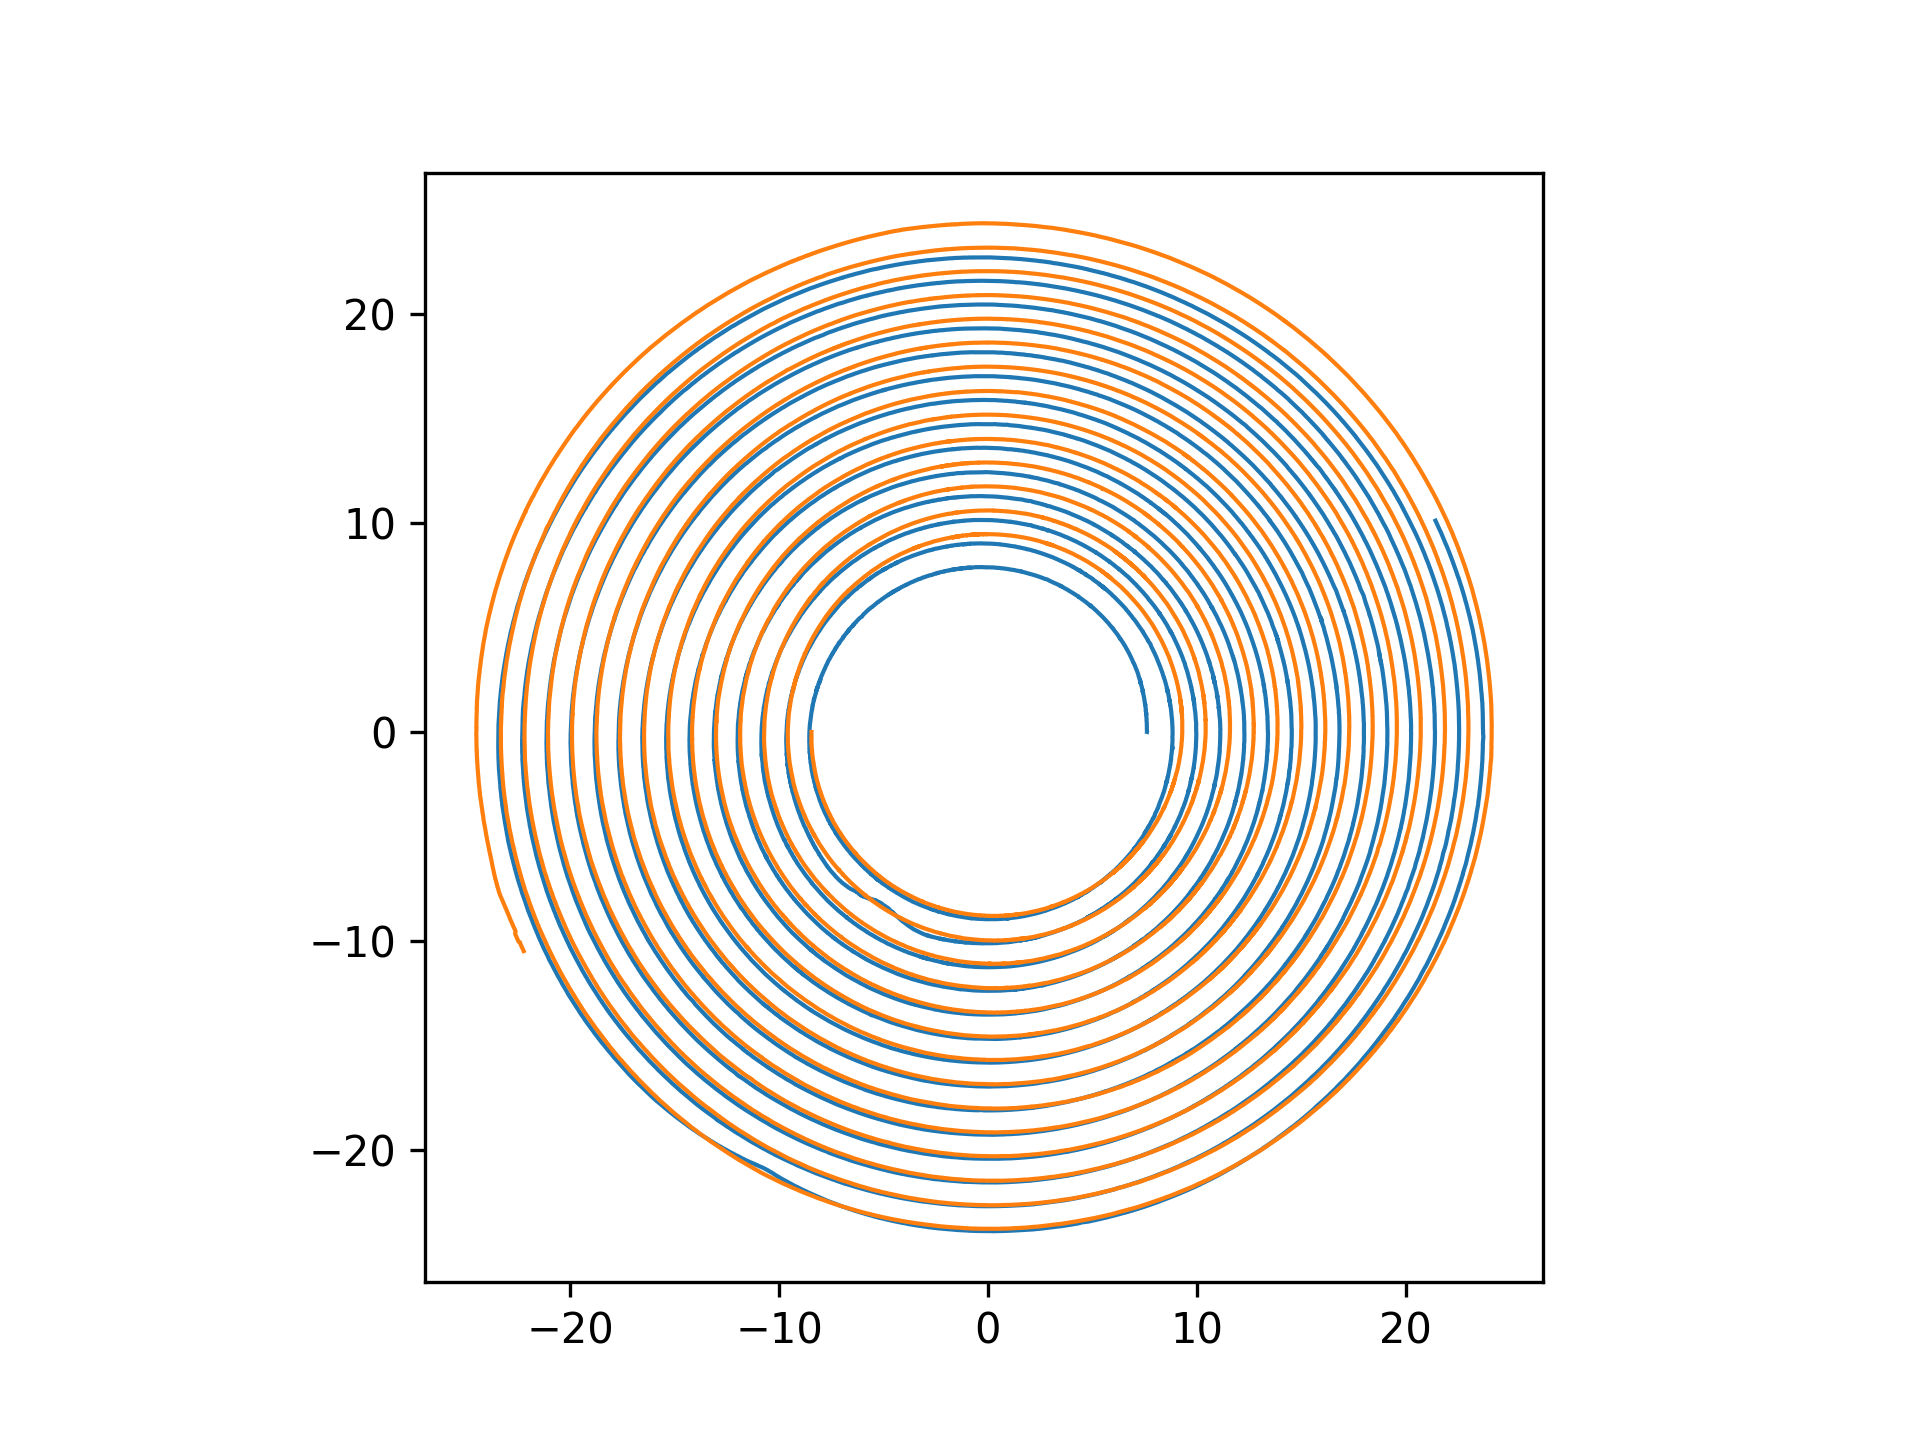
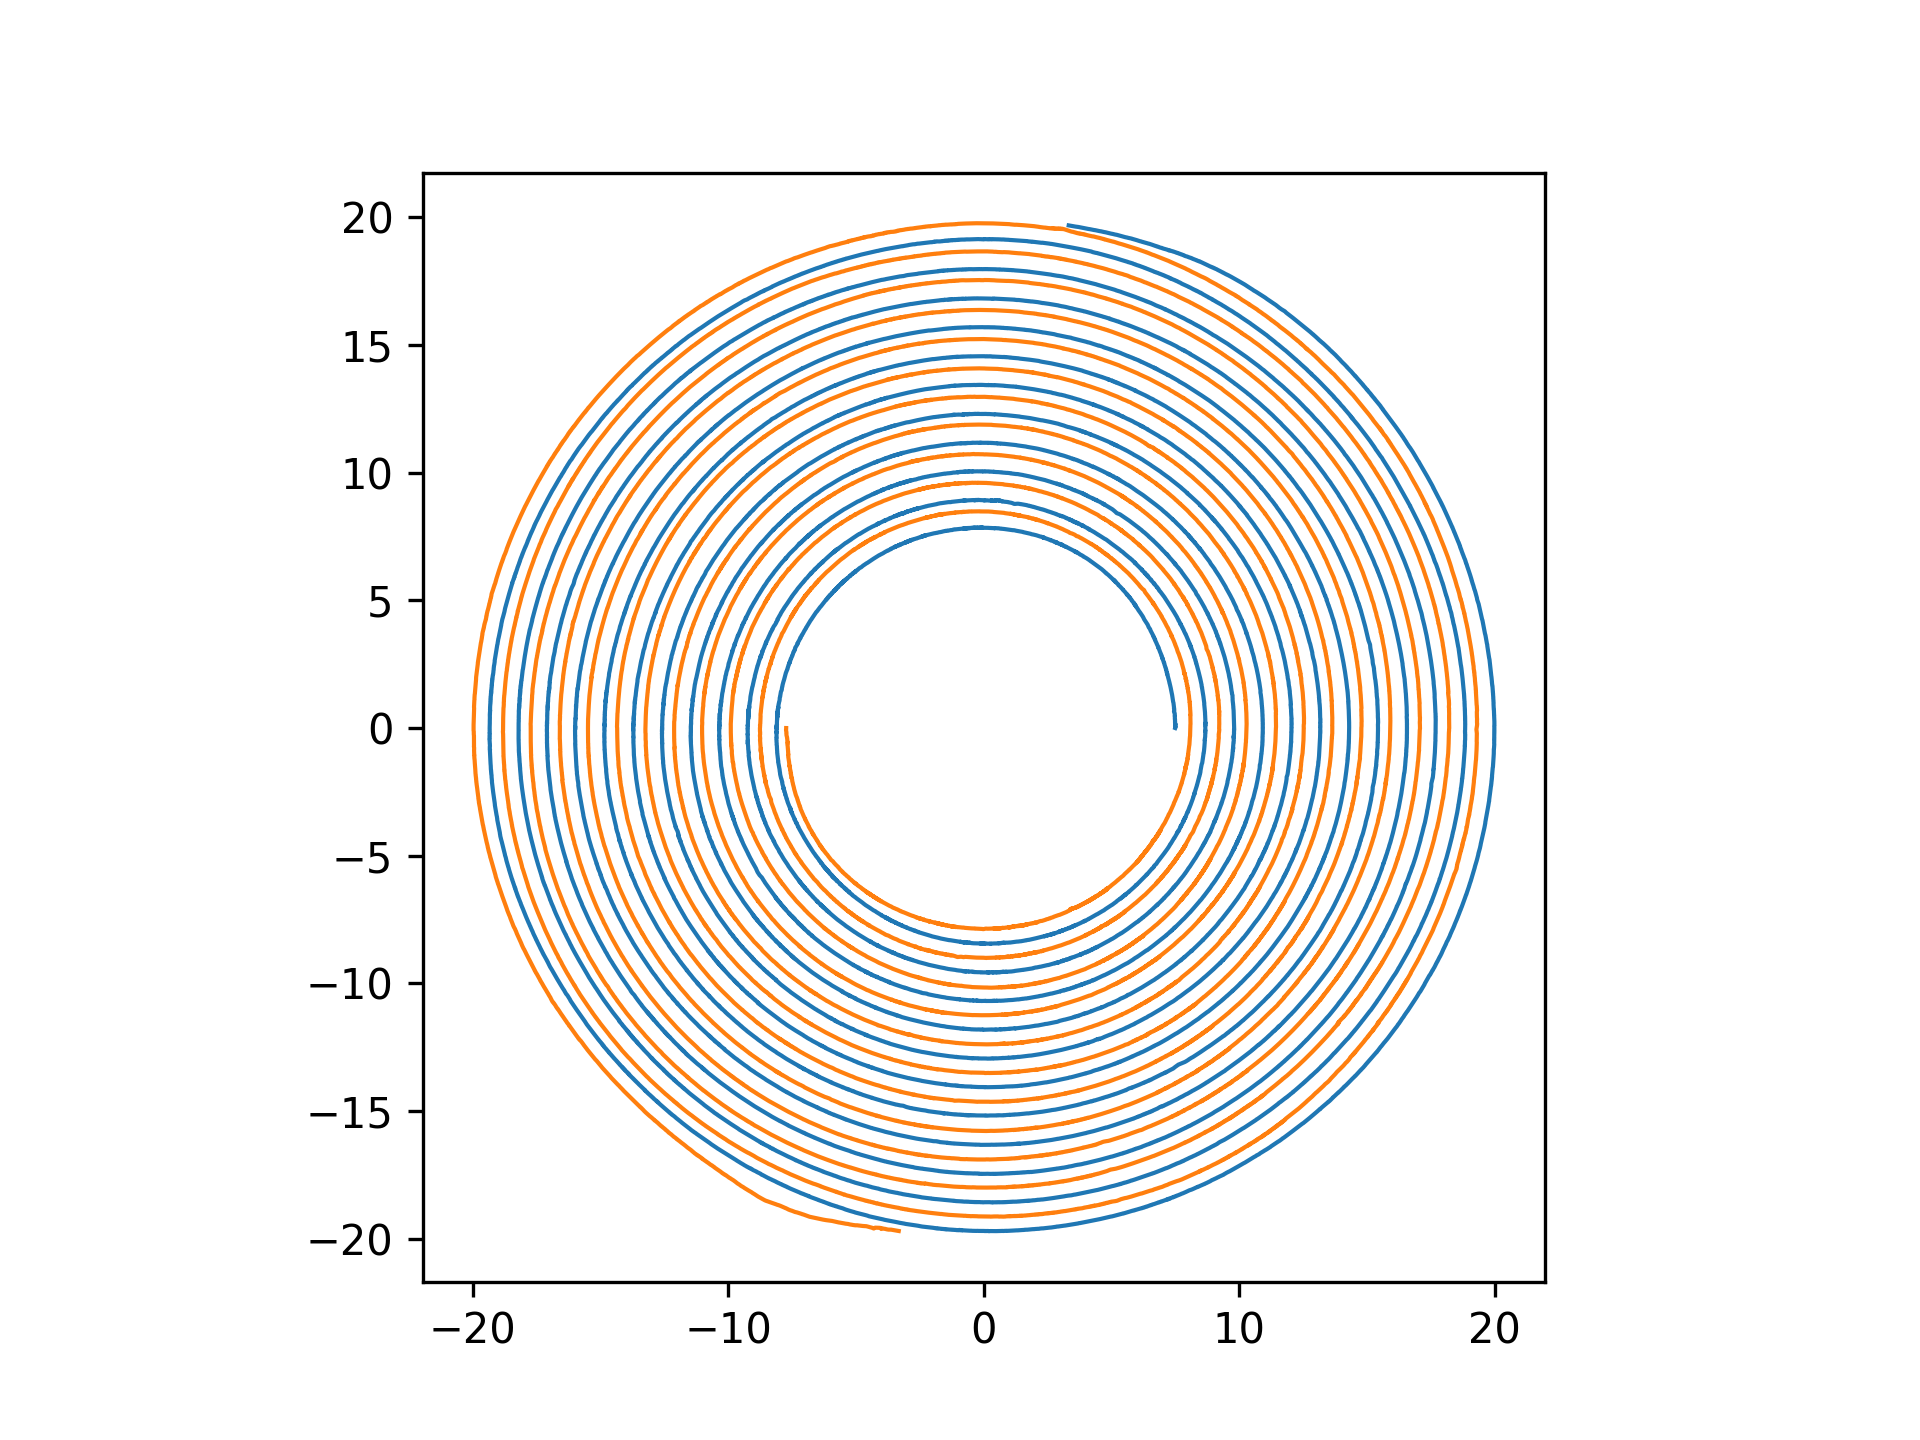
Calibration & Stitching Improvements

diff --git a/sectorImage/core/calibration.py b/sectorImage/core/calibration.py
@@ -44,21 +44,33 @@ class Calibrator:
         im = np.empty(np.shape(src), np.uint8)
         # Gaussian Blur to remove fast features
         kernelsize = 5
-        cv2.GaussianBlur(src=src, ksize=(kernelsize, kernelsize), dst=im, sigmaX=1.5, sigmaY=1.5)
+        sigma = 5
+        cv2.GaussianBlur(src=src, ksize=(kernelsize, kernelsize), dst=im, sigmaX=sigma, sigmaY=sigma)
 
         # print('Convolving')
         # Convolving with kernel
-        prewitt_kernel_x = np.array([[-1, 0, 1], [-1, 0, 1], [-1, 0, 1]])
+        kheight = 21
+        prewitt_kernel_x = np.array([[-1, 0, 1]] * kheight)
         im = im.astype(np.int16, copy=False)
-        cv2.threshold(src=im, dst=im, thresh=150, maxval=255, type=cv2.THRESH_TOZERO)[1]
+
+        # cv2.threshold(src=im, dst=im, thresh=210, maxval=255, type=cv2.THRESH_TOZERO)[1]
         cv2.filter2D(src=im, kernel=prewitt_kernel_x, dst=im, ddepth=-1)
-        np.abs(im, out=im)
+
+        # cv2.threshold(src=im, dst=im, thresh=0, maxval=255, type=cv2.THRESH_TOZERO)[1]
+        # np.abs(im, out=im)
 
         # print('Thresholding')
-        mean_val = np.mean(im)
+        # mean_val = np.mean(im)
         std_val = np.std(im)
-        thresh = mean_val + 3 * std_val
+        # thresh = mean_val + 3 * std_val
+        thresh = 2 * std_val
+        # im *= -1
+        filtered = np.copy(im)
         cv2.threshold(src=im, dst=im, thresh=thresh, maxval=1, type=cv2.THRESH_BINARY)
+        morph_kernel = np.ones((5, 5), np.uint8)
+        cv2.morphologyEx(src=im, dst=im, op=cv2.MORPH_OPEN, iterations=1, kernel=morph_kernel)
+        cv2.morphologyEx(src=im, dst=im, op=cv2.MORPH_CLOSE, iterations=1, kernel=morph_kernel)
+
         pt_x = [np.argmax(line > 0) for i, line in enumerate(im)]
         pt_y = np.arange(0, len(pt_x))
         pt_y = np.array([y for i, y in enumerate(pt_y) if pt_x[i] != 0])
@@ -69,19 +81,6 @@ class Calibrator:
             n_regions = 100
             pt_x_sub, centroids = self.subsampling(pt_x, subregion_size, n_regions)
 
-        # plot = True
-        if plot:
-            fig = plt.figure()
-            ax = fig.add_subplot(111)
-            ax.plot(pt_x, pt_y, lw=.2, color='orange')
-            if subsampling:
-                ax.scatter(pt_x_sub, centroids, lw=.1, color='green', marker='o', s=1)
-            ax.imshow(im)
-            ax.set_xlim([700, 1200])
-            ax.set_aspect('auto')
-            fig.savefig(__location__ + '/../img/out/calibration_new_' +
-                        fn.split('.')[0].split('/')[-1] + '.png', dpi=300)
-
         if subsampling:
             data = [pt_x_sub, centroids]
         else:
@@ -91,6 +90,16 @@ class Calibrator:
             sigma = 11
             data = self.smoothing(data, sigma)
 
+        # plot = True
+        if plot:
+            fig = plt.figure()
+            ax = fig.add_subplot(111)
+            ax.plot(data[0], data[1], lw=.2, color='orange')
+            ax.imshow(filtered)
+            # ax.set_xlim([700, 1200])
+            ax.set_aspect('auto')
+            fig.savefig(__location__ + '/../img/out/calibration_new_' +
+                        fn.split('.')[0].split('/')[-1] + '.png', dpi=300)
         return data
 
     def subsampling(self, x, n, size):
@@ -104,7 +113,8 @@ class Calibrator:
 
     def smoothing(self, data, sigma):
         x, y = data
-        filtered = ndimage.gaussian_filter1d(x, sigma)
+        # minfiltered = ndimage.minimum_filter1d(x, sigma)
+        filtered = ndimage.gaussian_filter1d(x, sigma, mode='reflect')
         filtered[:2 * sigma] = x[:2 * sigma]
         filtered[-2 * sigma:] = x[-2 * sigma:]
         dnew = filtered, y
@@ -132,6 +142,29 @@ class Calibrator:
             xc, yc, R, residu = self.leastsq_circle(x, y, w=1, fixedR=r_mean)
             out.append([xc, yc, R])
         return out
+
+    def f_tlf(self, c, d):
+        x, y = d
+        xc, yc = c
+        dx = x - xc
+        dy = y - yc
+        rho = np.sqrt(np.square(dx) + np.square(dy))
+        # delta = rho - np.mean(rho)
+        delta = np.std(rho)
+        return delta
+
+    def transformedLineFitting(self, data):
+        calibration = []
+        for i, d in enumerate(data):
+            x, y = d
+            x_m = np.mean(x)
+            y_m = np.mean(y)
+            mp_estimate = np.array([x_m, y_m])
+            opt = optimize.least_squares(self.f_tlf, mp_estimate, args=[d], jac='2-point')
+            xc, yc = opt.x
+            r = np.mean(self.calc_R(x, y, xc, yc))
+            calibration.append([xc, yc, r])
+        return calibration
 
     def calc_R(self, x, y, xc, yc):
         return np.sqrt((x - xc)**2 + (y - yc)**2)
@@ -215,8 +248,7 @@ class Calibrator:
             y_m = np.mean(y)
             mp = np.array([x_m, y_m])
             center_estimates = np.append(center_estimates, mp)
-        opt = optimize.least_squares(self.f_multivariate, center_estimates, args=data, jac='3-point')
-
+        opt = optimize.least_squares(self.f_multivariate, center_estimates, args=data, jac='2-point')
         calibration = []
         Rs = []
         for i in range(len(opt.x) // 2):
@@ -226,9 +258,13 @@ class Calibrator:
             x, y = data[i]
             Ri = self.calc_R(x, y, *center)
             R = Ri.mean()
+
+            circle = plt.Circle((xc, yc), R, edgecolor='red', facecolor='none')
+
             calibration_i = [xc, yc, R]
             calibration.append(calibration_i)
             Rs.append(R)
+
         return calibration
 
     def leastsq_circle(self, x, y, w=1, fixedR=None):
@@ -247,10 +283,11 @@ class Calibrator:
     def computeAll(self, tofile=False):
         lock = mp.Lock()
         self.comp = Parmap(self.computeMidpoint, self.fns, lock=lock)
-        for c in self.comp:
-            self.smoothing(c)
+        # for c in self.comp:
+        #    self.smoothing(c)
         # self.calibration = self.optimize_odr(self.comp)
         self.calibration = self.leastsq_circle_multivariate(self.comp)
+        # print(self.calibration)
         # print(self.calibration)
         # self.calibration = [c[:3] for c in self.comp]
         # self.calibration = self.correction()
@@ -270,6 +307,9 @@ class Calibrator:
         mp = np.array([x, y])
         mps_zero = mps - mp
         mps_radial = np.array([np.array([np.sqrt(pt[0]**2 + pt[1]**2), np.arctan2(pt[1], pt[0])]) for pt in mps_zero])
+        thetas = mps_radial[:, 1]
+        dt = np.array([(t - thetas[i + 1]) % np.pi for i, t in enumerate(thetas[:-1])])
+        self.shiftAngle = np.mean(dt)
         rs = mps_radial[:, 0]
         dr = r - rs
         dr_true = np.argwhere(np.abs(dr) < 1).flatten()

diff --git a/sectorImage/core/stitcher.py b/sectorImage/core/stitcher.py
@@ -64,7 +64,7 @@ class Stitcher:
         lock = mp.Lock()
 
         if self.mpflag:
-            self.images = Parmap(self.singleRoutine, self.fns, self.calibration, lock)
+            self.images = Parmap(self.singleRoutine, self.fns, self.calibration, self.env, lock)
             # self.images = Parmap(self.singleRoutine, srcs, self.calibration, lock)
         else:
             for fn in self.fns:
@@ -107,8 +107,8 @@ class Stitcher:
                 ampstart = image.start[1]
             for j, coord in enumerate(zip(image.r, image.phi)):
                 rs, phis = coord
-
                 phis = image.angles[np.array(phis)] + (i * 2 * np.pi / len(self.fns))
+                # phis = image.angles[np.array(phis)] + (i * (np.pi - 2.75663253596))
                 #phis = image.angles[np.array(phis)] + dt[i]
                 rs = image.radii[np.array(rs)]
                 axx.plot(rs, lw=0.1)
@@ -116,14 +116,16 @@ class Stitcher:
                 s = (phis, rs, i, j)
                 segments.append(s)
                 if plot:
-                    ax.plot(phis, rs, lw=0.5)
+                    ax.plot(phis, rs, lw=0.2)
+                    # ax.plot(rs * np.cos(phis), rs * np.sin(phis), lw=0.2)
             # segments.append(img_segs)
         self.startAngle = (2 * np.pi) - pstart
         figg.savefig(__location__ + '/../img/out/debug.png', dpi=300)
         if plot:
+            # ax.set_aspect('equal')
             ax.set_xlabel('Angle [rad]')
             ax.set_ylabel('Radius [px]')
-            fig.savefig(__location__ + '/../img/out/stitched.png', dpi=300)
+            fig.savefig(__location__ + '/../img/out/stitched.png', dpi=600)
 
         if tofile:
             np.save(__location__ + '/../data/stitched.npy', segments)
@@ -212,6 +214,7 @@ class Stitcher:
             bandR = np.empty(0)
             bandP = np.empty(0)
             if not skipFlag:
+                self.optimizeOverlap(combined)
                 for c in combined:
                     bandR = np.append(bandR, c.rs)
                     bandP = np.append(bandP, c.phis)
@@ -353,6 +356,14 @@ class Stitcher:
         parametrized = (compP, compR, scale, chirality)
         return parametrized
 
+    def optimizeOverlap(self, segments):
+        rmin = min([np.min(s.rs) for s in segments])
+        rmax = max([np.max(s.rs) for s in segments])
+        length = sum([len(s.rs) for s in segments])
+        grid = np.linspace(rmin, rmax, num=length, endpoint=True)
+        for s in segments:
+            ...
+
     def loadSegments(self, fn='stitched.npy'):
         fn = __location__ + '/../data/' + fn
         segments = np.load(fn)
@@ -370,7 +381,7 @@ class Stitcher:
         p = pickler.Pickler()
         p.save(self, fn)
 
-    def singleRoutine(self, fn, calibration, lock):
+    def singleRoutine(self, fn, calibration, env, lock):
         """
         Image processing routine to be parallelized
 
@@ -382,7 +393,7 @@ class Stitcher:
         # npzfn = 'data/' + (fn.split('/')[-1].split('.')[0]) + '.npz'
         im = singleImage.SingleImage(fn, calibration)
         # im.getFeatures(npz=npzfn)
-        im.getFeatures(lock=lock)
+        im.getFeatures(env=env, lock=lock)
         # im.setFeatures(npz=npzfn)
         im.getLines()
         return im

diff --git a/sectorImage/core/image.py b/sectorImage/core/image.py
@@ -30,6 +30,7 @@ class Image:
         self.fn = fn
         self.fn_npy = self.fn.split('.')[0] + '.npy'
         self.id = int(self.fn.split('cpt')[-1].split('.')[0])
+        self.calibration = calibration
         # calibration_path = __location__ + '/../data/calibration.npy'
         # calibration = np.load(calibration_path)
         self.midpoint = calibration[self.id - 1][:-1]
@@ -47,7 +48,7 @@ class Image:
         self.dimensions = np.shape(self.image)
         self.dimy, self.dimx = self.dimensions
 
-    def transformRadial(self, midpoint=None, plot=False):
+    def transformRadial(self, env=None, midpoint=None, plot=False):
         """
         Creates a transformed image where a sector is mapped to r/phi coordinates
 
@@ -81,10 +82,18 @@ class Image:
         thetaPlus = -math.asin(hplus / rmax)
         thetaMinus = math.asin(hminus / rmax)
 
+        # thetaPlus, thetaMinus = -thetaMinus, -thetaPlus
+
         thetaPlus_idx = int((thetaPlus + np.pi) / (2 * np.pi) * self.dimy)
         thetaMinus_idx = int((thetaMinus + np.pi) / (2 * np.pi) * self.dimy)
 
-        c = tuple(midpoint)
+        #c = tuple(midpoint)
+        cx, cy = midpoint
+        # TODO: Find out why there is this shift
+        shift = 100
+        cx -= shift
+
+        c = (cx, cy)
 
         transformed = cv2.linearPolar(self.image, c, rmax, cv2.WARP_FILL_OUTLIERS)
 
@@ -103,6 +112,20 @@ class Image:
         start_idx = np.argmax(transformed > 0, axis=1)
         for i in range(len(transformed)):
             transformed[i][transformed[i] == 0] = transformed[i, start_idx[i]]
+
+        # Remove Calibration features
+        calib_size_px = np.mean(np.array([x[2] for x in self.calibration]))
+        calib_size_mm = env.calib_size_mm  # Outer radius of calibration piece
+        tolerance = 1.1
+        calib_width_mm = env.calib_width_mm * tolerance  # Width of the calibration piece
+        # pitch_mm = self.env.pitch_mm  # Nominal electrode pitch
+        scale = calib_size_mm / calib_size_px
+        calibrationCutoff = (calib_size_mm - calib_width_mm) / scale * r / rmax
+        # pitch = pitch_mm / scale
+        transformed[:, int(calibrationCutoff):] = 0
+        for i in range(len(transformed)):
+            transformed[i][transformed[i] == 0] = transformed[i, int(calibrationCutoff) - 1]
+        # plot = True
 
         if plot:
             fig = plt.figure()

diff --git a/sectorImage/core/midpoints.py b/sectorImage/core/midpoints.py
@@ -17,6 +17,11 @@ class Walker:
         """
         self.image = image
         self.skeleton = self.skeletonize(self.image)
+        fig = plt.figure()
+        ax = fig.add_subplot(111)
+        ax.imshow(self.skeleton)
+        ax.set_aspect('auto')
+        fig.savefig('skeletonDebug', dpi=300)
 
     def walkSkeleton(self, plot=False, maxwidth=10):
         """
@@ -37,7 +42,6 @@ class Walker:
         """
 
         # t0 = time.time()
-
         coords, launchpoints, endpoints, terminatinos = self.scan(
             self.skeleton, maxwidth=maxwidth)
         # print('Scan time Top:', str(round(time.time() - t0, 2)), 's')
@@ -112,7 +116,7 @@ class Walker:
 
         kernel = cv2.getStructuringElement(cv2.MORPH_CROSS, (3, 3))
 
-        while(True):
+        while True:
             cv2.erode(img, kernel, eroded)
             cv2.dilate(eroded, kernel, temp)
             cv2.subtract(img, temp, temp)
@@ -186,7 +190,7 @@ class Walker:
                         high = False
 
                 if edges > 1:
-                    #print('line split termination at', head)
+                    # print('line split termination at', head)
                     # terminations.append(head[:])
                     pass
                     # break

diff --git a/sectorImage/core/singleImage.py b/sectorImage/core/singleImage.py
@@ -22,7 +22,7 @@ class SingleImage:
         self.fn = fn
         self.calibration = calibration
 
-    def getFeatures(self, resolution=None, npz=None, lock=None):
+    def getFeatures(self, resolution=None, npz=None, env=None, lock=None):
         """
         Process the features of the image
 
@@ -37,9 +37,8 @@ class SingleImage:
 
         """
         self.img = image.Image(self.fn, self.calibration, lock=lock)
-        angularLines, self.angles, self.radii = self.img.transformRadial(plot=False)
+        angularLines, self.angles, self.radii = self.img.transformRadial(plot=False, env=env)
         self.features, self.start = self.img.detectFeatures(angularLines, plot=False)
-
         if npz is not None:
             print('Storing Features in', npz)
             np.savez(npz, f=self.features, a=self.angles)

diff --git a/applied/sequence.py b/applied/sequence.py
@@ -179,7 +179,7 @@ class Sequence:
         print(_C.CYAN + _C.BOLD + 'Evaluating electrode 1' + _C.ENDC)
         spiral, calibration = CombinedSequence(n=n, directory=directory1, env=env)
         electrode1 = Electrode(serial, spiral, calibration)
-        sys.exit()
+        # sys.exit()
         print(_C.CYAN + _C.BOLD + 'Evaluating electrode 2' + _C.ENDC)
         spiral, calibration = CombinedSequence(n=n, directory=directory2, env=env)
         electrode2 = Electrode(serial, spiral, calibration)

diff --git a/applied/main.py b/applied/main.py
@@ -10,11 +10,11 @@ from pair import Pair
 
 def main():
     s = Sequence(offsite=True)
-    s.prime()
-    pair = s.measure(n=4)
-    pair.store()
+    # s.prime()
+    #pair = s.measure(n=16)
+    # pair.store()
     # pair.load()
-    # pair = Pair('CSAT_LabTest.h5', fromFile=True)
+    pair = Pair('CSAT_RD-OFFSITE.h5', fromFile=True)
     pair.computeGap()
     pair.plot()
     # s.storeSpiral(spiral)

diff --git a/sectorImage/core/toolkit/segment.py b/sectorImage/core/toolkit/segment.py
@@ -6,6 +6,8 @@ class Segment:
     def __init__(self, phis, rs, imgNum, bandNum, identity=None):
         self.phis = phis
         self.rs = rs
+        self.xs = self.rs * np.cos(self.phis)
+        self.ys = self.rs * np.sin(self.phis)
         self.imgNum = imgNum
         self.bandNum = bandNum
         self.identity = identity
